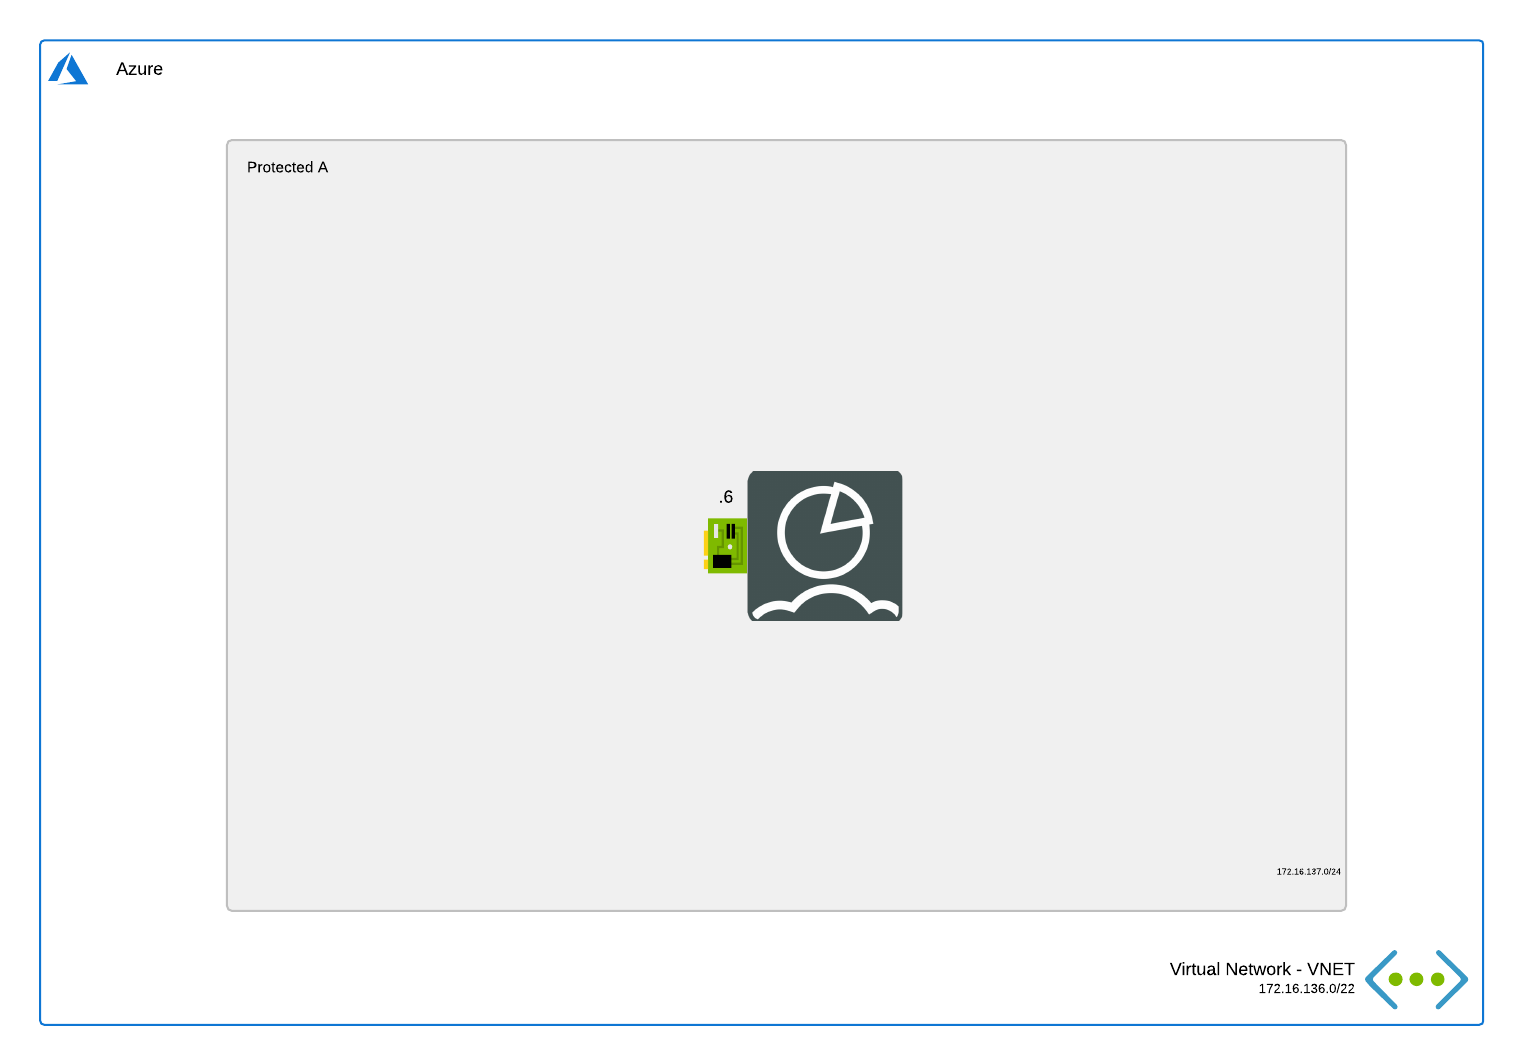
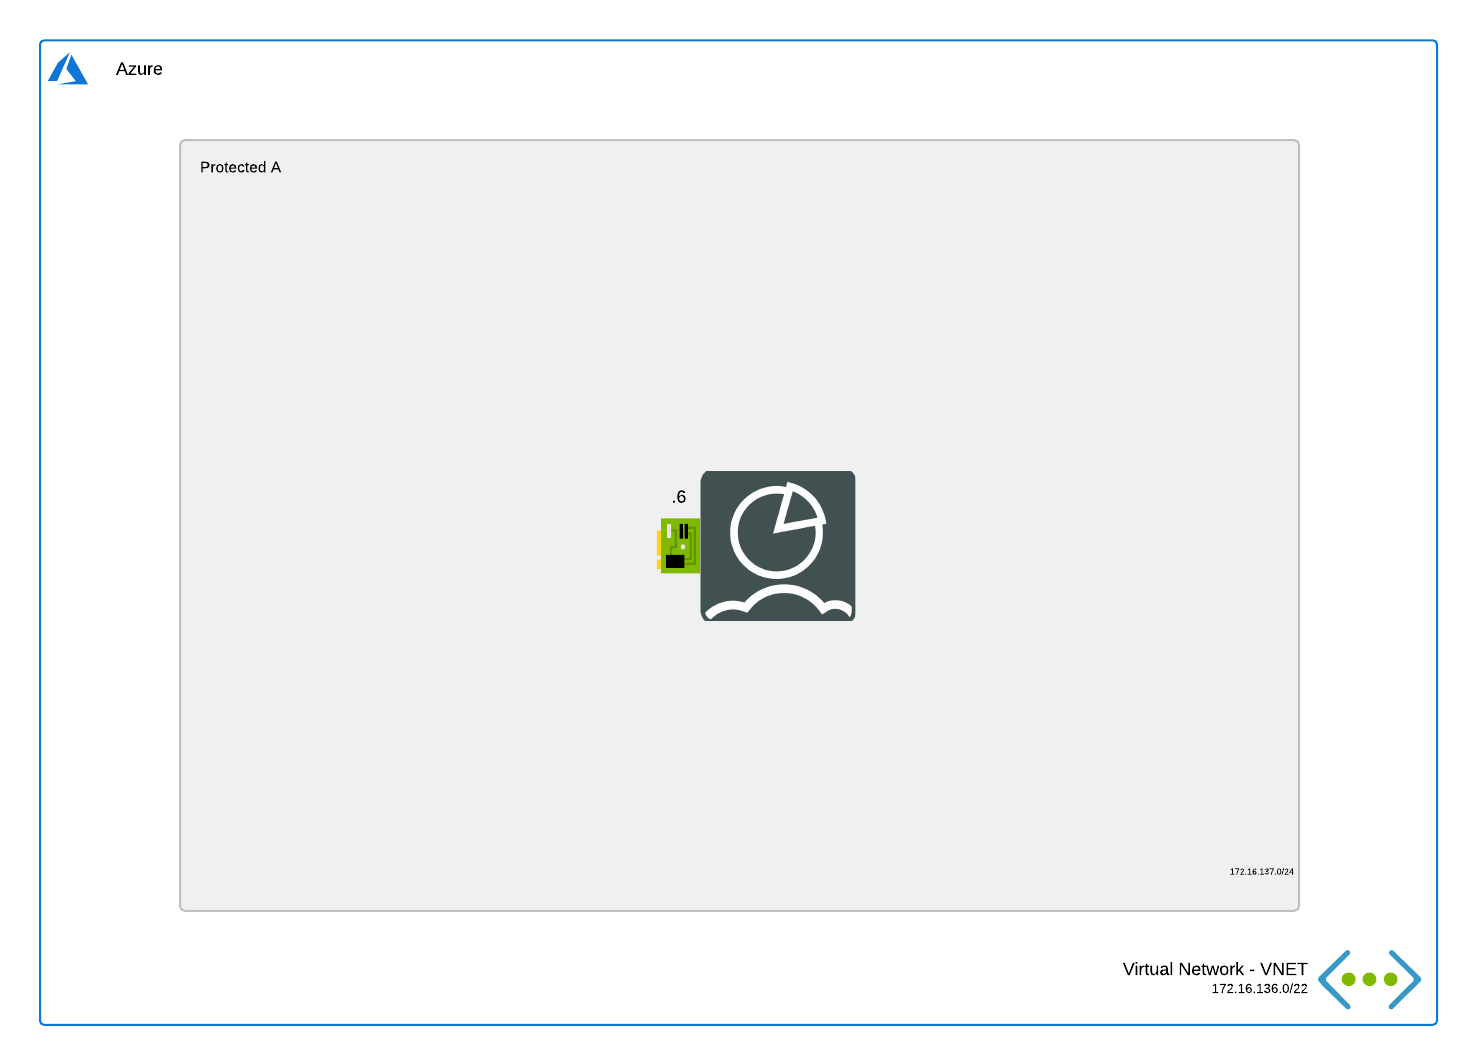
Update FAZ images

diff --git a/FortiAnalyzer/single-1nic/README.md b/FortiAnalyzer/single-1nic/README.md
@@ -18,7 +18,9 @@ This Azure ARM template will automatically deploy a full working environment con
 - 1 VNETs containing a subnet for the FortiAnalyzer
 - Optional: 1 Basic public IP
 
-![FortiAnalyzer-VM azure design](images/faz-single-1nic.png)
+<p align="center">
+  <img src="images/faz-single-1nic-small.png" alt="FortiAnalyzer-VM azure design"/>
+</p>
 
 The VM will have the sixth IP in the network range as his static IP. You can adapt the 'sn1IPfg1' variable in the ARM template to change this.
 
@@ -26,7 +28,9 @@ This Azure ARM template can also be extended or customized based on your require
 
 The FortiAnalyzer can also be deployed with a public IP on the network interface. Select 'None' as the public IP.
 
-![FortiAnalyzer-VM azure design](images/faz-single-1nic-private.png)
+<p align="center">
+  <img src="images/faz-single-1nic-private-small.png" alt="FortiAnalyzer-VM azure design"/>
+</p>
 
 ## Deployment
 
